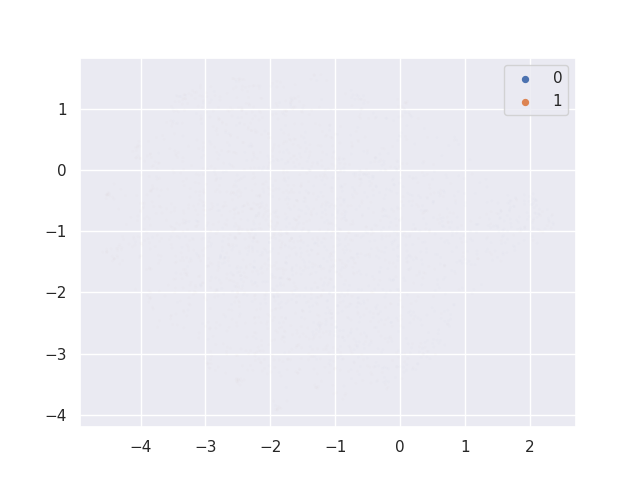
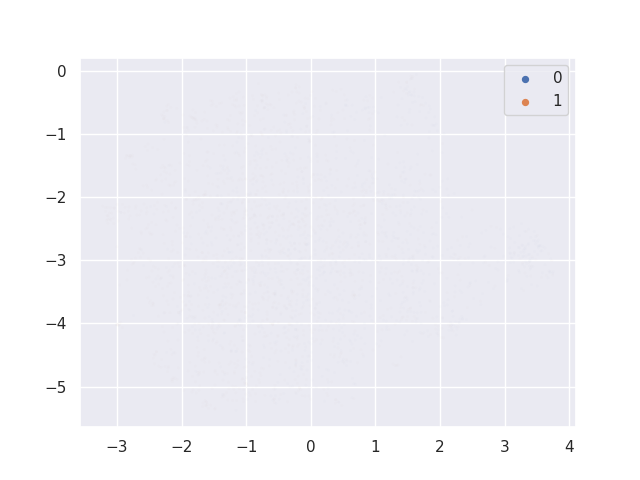
more umap plots!

diff --git a/visualize.py b/visualize.py
@@ -316,7 +316,8 @@ if __name__ == "__main__":
     cues = list(set(cues + [vocab[random.randint(0, len(vocab) - 1)] for i in range(1000)]))
     print(len(cues))
 
-    umap_plot(vectors, estimates, cues=cues, save_prefix='test-umap-')
+    for n in [5, 10, 15, 20, 50]:
+        umap_plot(vectors, estimates, neighbors=n, cues=cues, save_prefix='test-umap-')
     #for perplex in [5, 10, 20, 50, 100, 200, 500, 1000]:
         #for lr in [50, 100, 500, 1000]:
         #tsne(vectors, estimates, cues=cues, perplex=perplex, save_prefix='test-tsne-')
